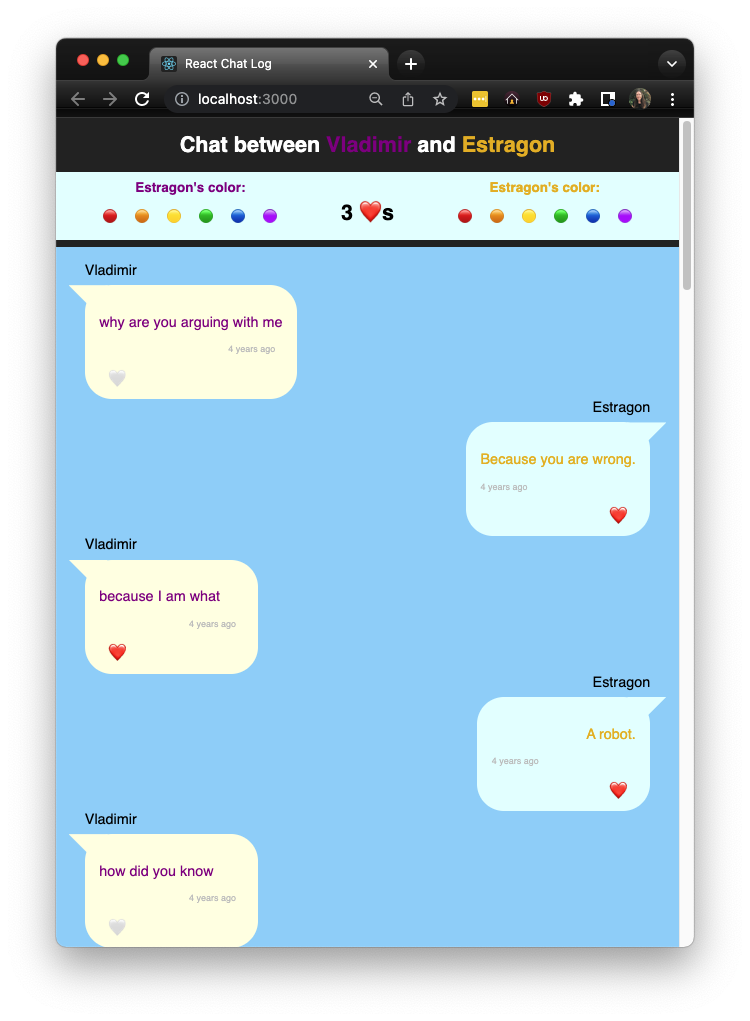
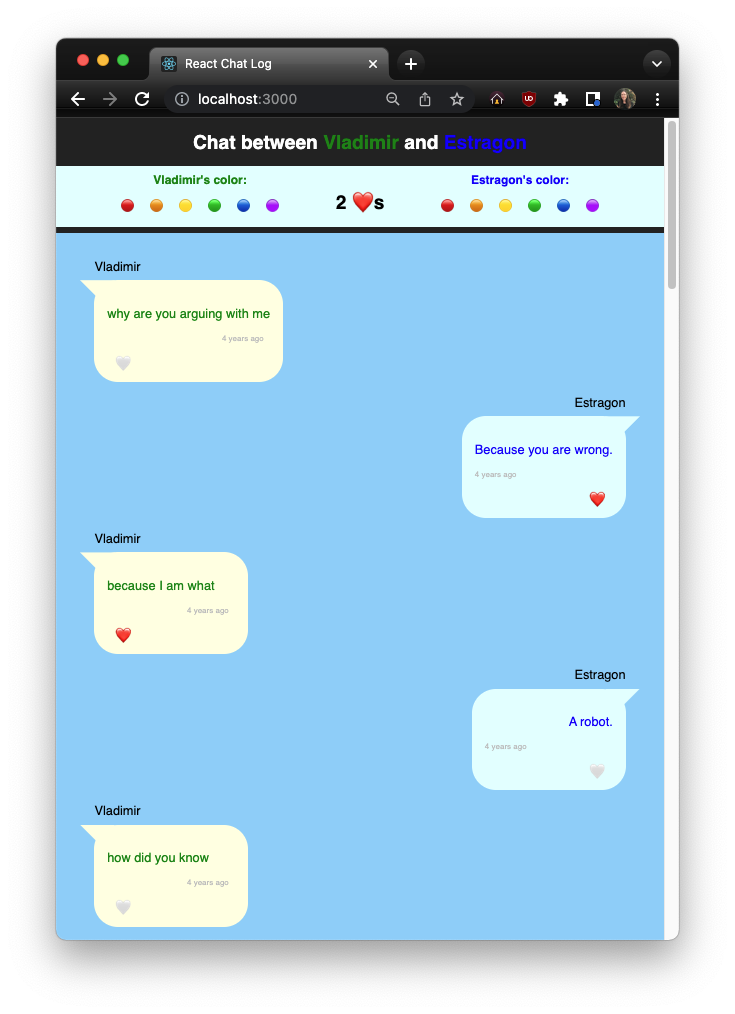
update images to one without extra and one with

diff --git a/project-docs/optional-enhancements.md b/project-docs/optional-enhancements.md
@@ -10,10 +10,10 @@ Once you can designate each message as either local or remote, you should modify
 ## Color Choice
 Now that we have designated `ChatEntry`s as `"local"` or `"remote"`, let's add a feature to style the entries from different senders with different colors. Take a look at the image our solution for one suggestion on how to implement a color picking feature. 
 
+![React Chat Log demo](../images/react-chatlog-demo-extras.png)
+
 ### Hints
 Our solution uses a `ColorChoice` component with a `setColorCallback` prop that sets the color in the `App`. Once the color in the `App` is set, it is passed as a prop through the `ChatLog` to the `ChatEntry` components.
 
 ## Header title
 For one last finishing touch, consider updating the application title in the header. The text of the title should be determined dynamically based on the names of the participants in the chat log data. Consult the image of the example solution for what the title might contain.
-
-![React Chat Log demo](../images/react-chatlog-demo-extras.png)

diff --git a/README.md b/README.md
@@ -13,7 +13,7 @@ In this project we will use core React concepts to build a chat messenger-style 
 ## Project Outline
 This project comes with a minimal scaffold based on the baseline React application generated by `create-react-app`. We provide the JSON file with static chat message data and the CSS styles, and you will need to implement all of the components except for the provided `TimeStamp` component.
 
-![React Chat Log demo](./images/react-chatlog-demo-extras.png)
+![React Chat Log demo](./images/react-chatlog-demo.png)
 
 ## Project Directions
 - [Planning and Setup](./project-docs/setup.md)
